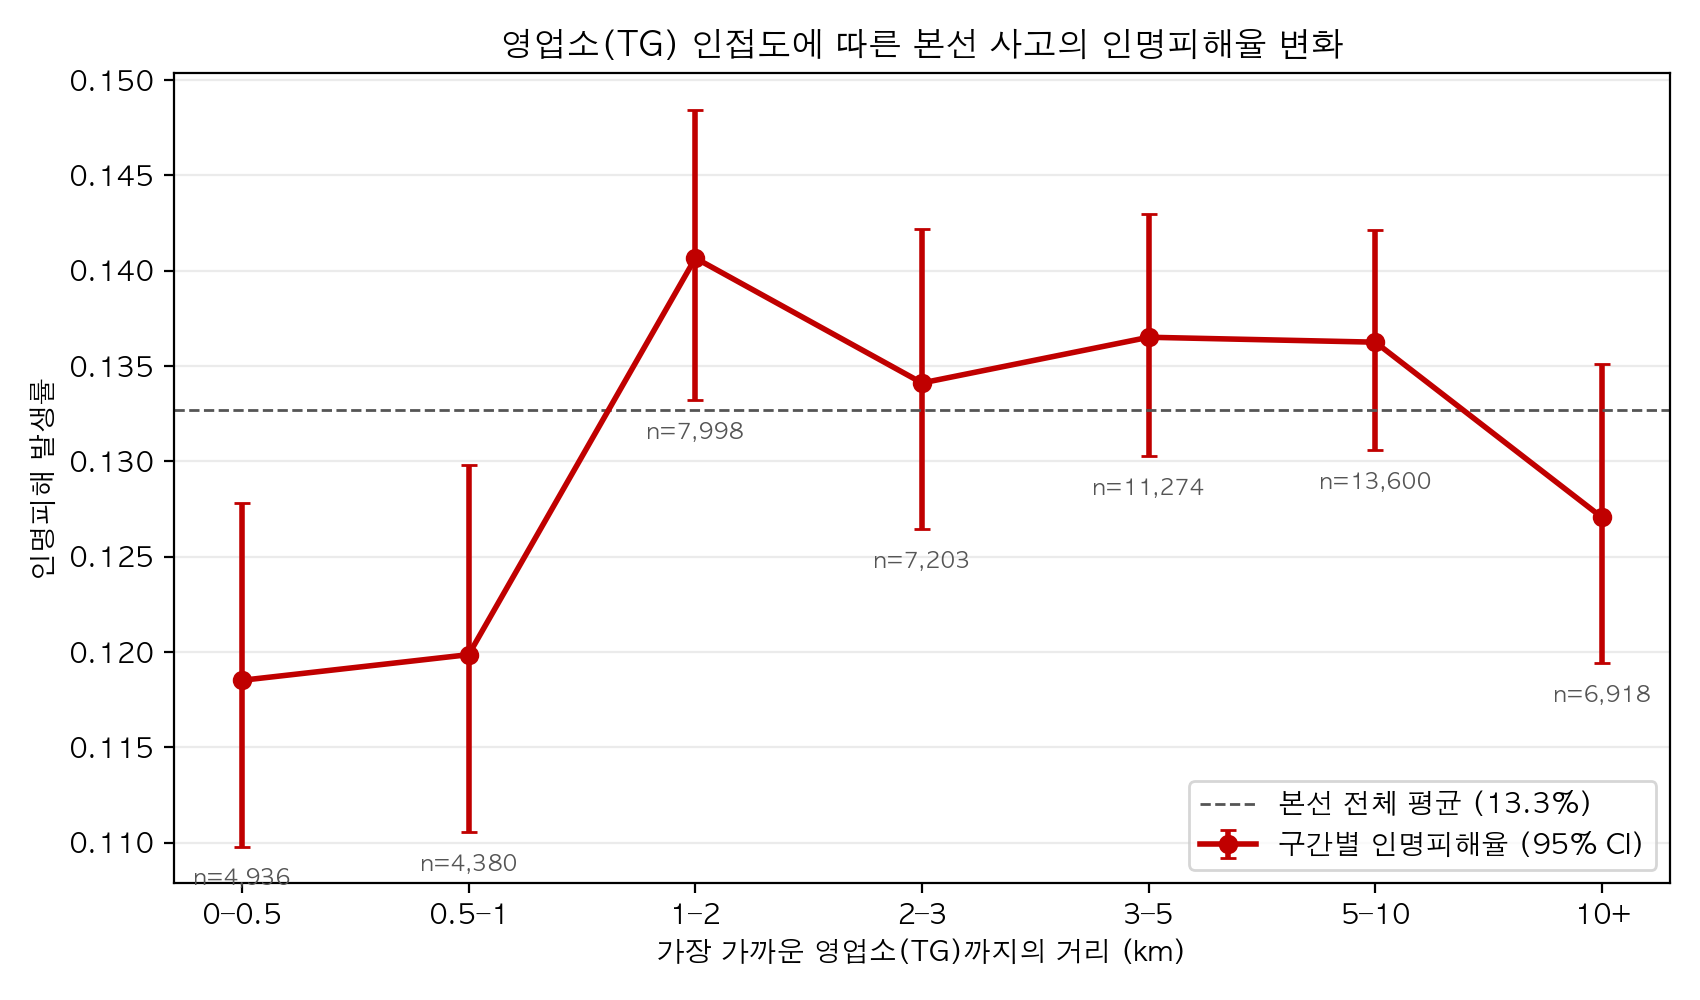
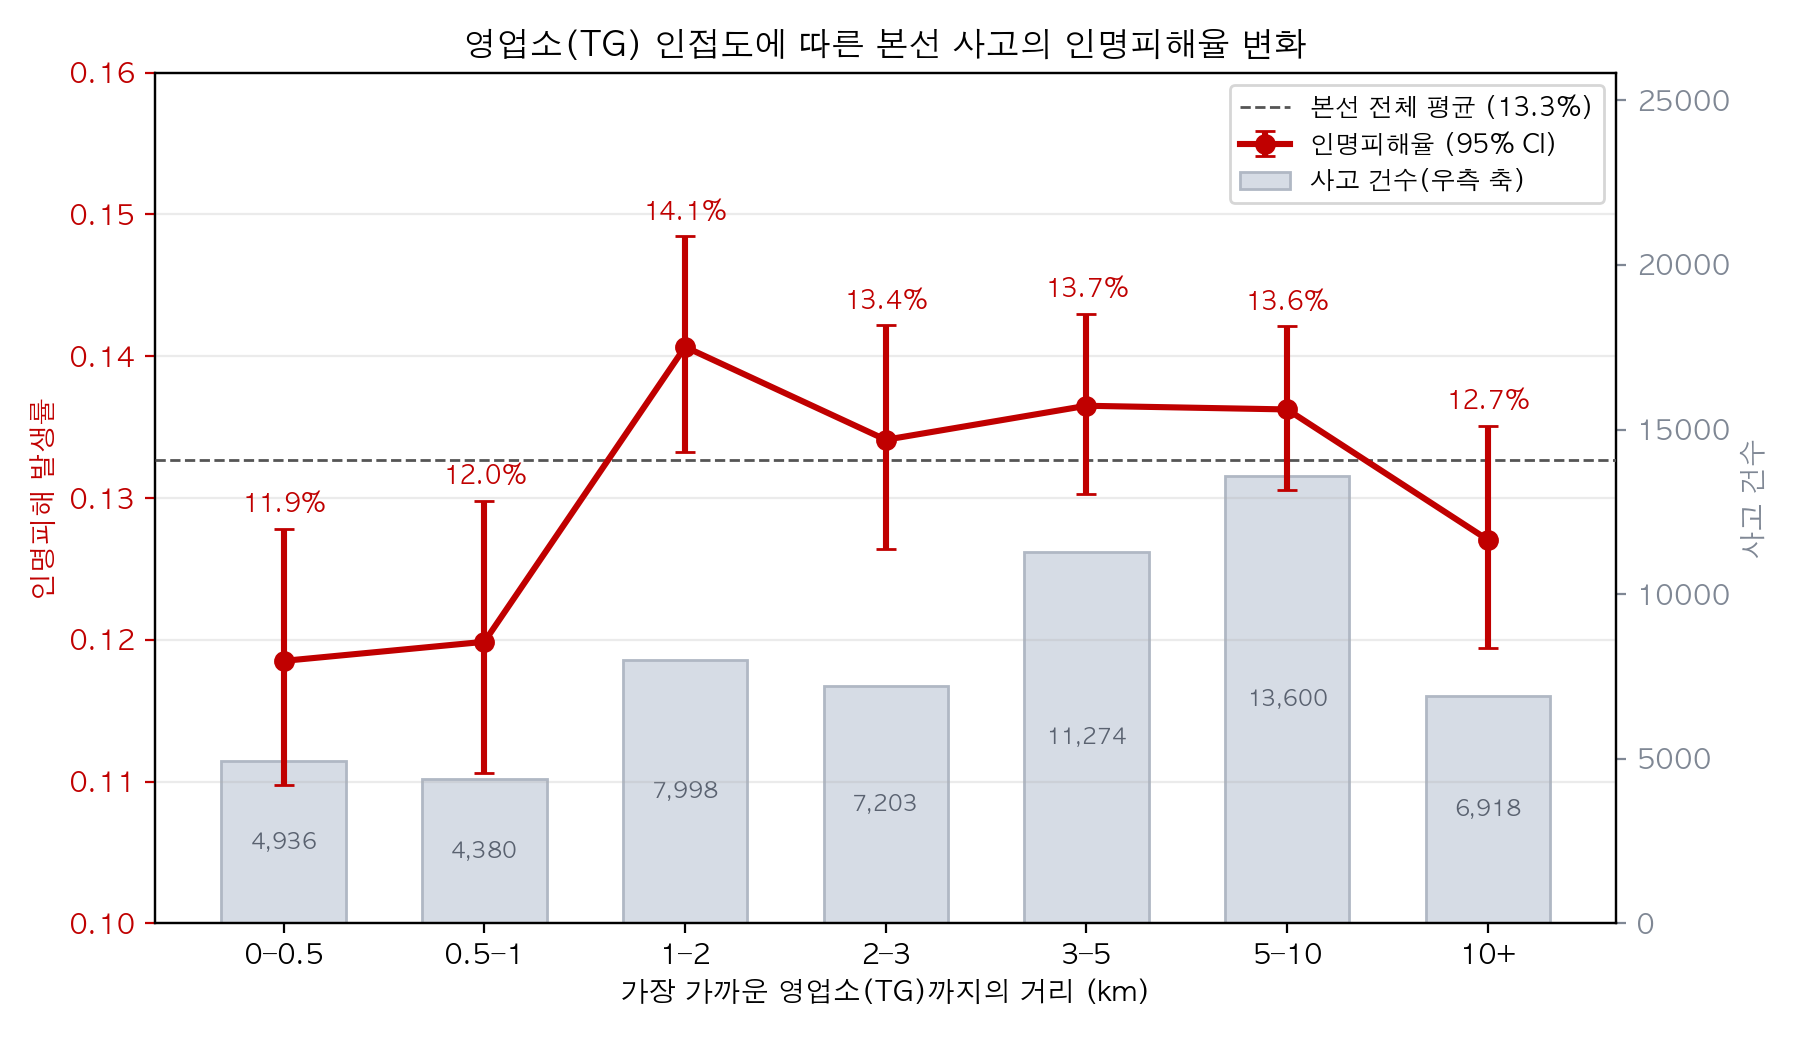
fig15를 이중축 그림으로 개선(사고수 막대 + 인명피해율 선·CI)

diff --git a/src/08_tg_distance_gradient.py b/src/08_tg_distance_gradient.py
@@ -112,26 +112,48 @@ def main():
           f"{overall:.3f})")
     print(tab.round(4).to_string(index=False))
 
-    # ── 5. 그림 ────────────────────────────────────────────────
+    # ── 5. 그림: 막대(사고수) + 선(인명피해율·95% CI) 이중축 ──
     xs = np.arange(len(BIN_LABELS))
-    fig, ax = plt.subplots(figsize=(8.5, 5))
+    fig, ax = plt.subplots(figsize=(9, 5.2))
+
+    # 배경 막대: 구간별 사고 건수 (오른쪽 축)
+    ax2 = ax.twinx()
+    bars = ax2.bar(xs, tab["사고수"], width=0.62, color="#D6DCE5",
+                   edgecolor="#B0B8C4", zorder=1, label="사고 건수(우측 축)")
+    for b, n in zip(bars, tab["사고수"]):
+        ax2.text(b.get_x() + b.get_width() / 2, b.get_height() / 2,
+                 f"{n:,}", ha="center", va="center", fontsize=8,
+                 color="#5A6270")
+    ax2.set_ylabel("사고 건수", color="#7F8794")
+    ax2.tick_params(axis="y", colors="#7F8794")
+    ax2.set_ylim(0, tab["사고수"].max() * 1.9)  # 막대를 아래쪽에 깔기
+
+    # 전면 선: 인명피해율 + 95% CI (왼쪽 축)
     ax.errorbar(xs, tab["인명피해율"],
                 yerr=[tab["인명피해율"] - tab["CI하한"],
                       tab["CI상한"] - tab["인명피해율"]],
-                fmt="o-", color="#C00000", lw=2, ms=6, capsize=3,
-                label="구간별 인명피해율 (95% CI)")
-    ax.axhline(overall, color="#555555", ls="--", lw=1,
-               label=f"본선 전체 평균 ({overall:.1%})")
+                fmt="o-", color="#C00000", lw=2.2, ms=6.5, capsize=3.5,
+                zorder=5, label="인명피해율 (95% CI)")
     for x, r in zip(xs, rows):
-        ax.annotate(f"n={r['사고수']:,}", (x, r["CI하한"]),
-                    textcoords="offset points", xytext=(0, -14),
-                    ha="center", fontsize=8, color="#555555")
+        ax.annotate(f"{r['인명피해율']:.1%}", (x, r["CI상한"]),
+                    textcoords="offset points", xytext=(0, 6),
+                    ha="center", fontsize=9, color="#C00000",
+                    fontweight="bold", zorder=6)
+    ax.axhline(overall, color="#555555", ls="--", lw=1, zorder=4,
+               label=f"본선 전체 평균 ({overall:.1%})")
     ax.set_xticks(xs)
     ax.set_xticklabels(BIN_LABELS)
     ax.set_xlabel("가장 가까운 영업소(TG)까지의 거리 (km)")
-    ax.set_ylabel("인명피해 발생률")
+    ax.set_ylabel("인명피해 발생률", color="#C00000")
+    ax.tick_params(axis="y", colors="#C00000")
+    ax.set_ylim(0.10, 0.16)
     ax.set_title("영업소(TG) 인접도에 따른 본선 사고의 인명피해율 변화")
-    ax.legend(loc="lower right")
+    ax.set_zorder(ax2.get_zorder() + 1)  # 선을 막대 위로
+    ax.patch.set_visible(False)
+
+    h1, l1 = ax.get_legend_handles_labels()
+    h2, l2 = ax2.get_legend_handles_labels()
+    ax.legend(h1 + h2, l1 + l2, loc="upper right", fontsize=9)
     ax.grid(axis="y", alpha=0.25)
     fig.tight_layout()
     fig.savefig(OUT_FIG, dpi=200)